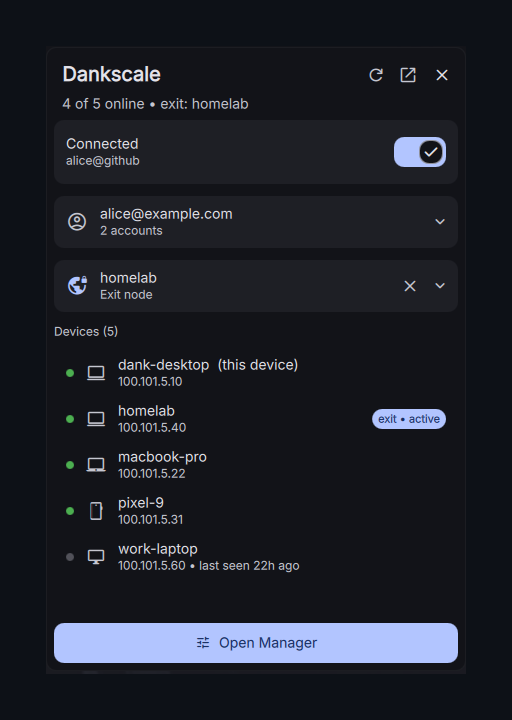
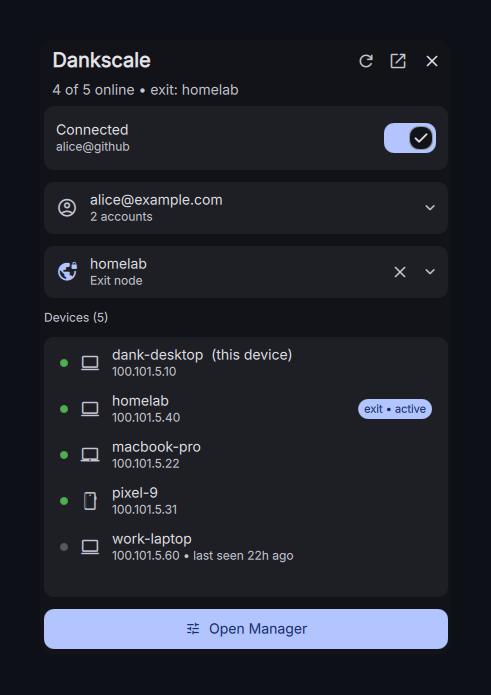
Wrap popout device list in a card; refresh screenshots
- Wrap the popout's device list in a StyledRect card using
  surfaceContainerHigh / cornerRadius, matching the connection,
  account, and exit-node cards for a consistent look.
- Regenerate docs/screenshot.png and docs/manager.png with the new
  card styling (seeded demo tailnet).
- Add screenshot links to plugin.json.
- Point remaining references at the renamed repo (dms-dankscale).

diff --git a/Tailscale.qml b/Tailscale.qml
@@ -498,34 +498,43 @@ PluginComponent {
                     color: Theme.surfaceVariantText
                 }
 
-                DankFlickable {
+                StyledRect {
                     visible: !popout.locked
                     width: parent.width
                     height: 260
-                    clip: true
-                    contentHeight: popoutDeviceCol.height
+                    radius: Theme.cornerRadius
+                    color: Theme.surfaceContainerHigh
 
-                    Column {
-                        id: popoutDeviceCol
-                        width: parent.width
-                        spacing: 2
+                    DankFlickable {
+                        anchors.fill: parent
+                        anchors.margins: Theme.spacingXS
+                        clip: true
+                        contentHeight: popoutDeviceCol.height
 
-                        Repeater {
-                            model: root.popoutDevices
+                        Column {
+                            id: popoutDeviceCol
+                            width: parent.width
+                            spacing: 2
 
-                            DeviceRow {
-                                required property var modelData
-                                width: parent.width
-                                device: modelData
-                                compact: true
-                                onActivated: TailscaleService.copyDevice(modelData)
+                            Repeater {
+                                model: root.popoutDevices
+
+                                DeviceRow {
+                                    required property var modelData
+                                    width: parent.width
+                                    device: modelData
+                                    compact: true
+                                    onActivated: TailscaleService.copyDevice(modelData)
+                                }
                             }
-                        }
 
-                        StyledText {
-                            visible: root.popoutDevices.length === 0
-                            text: TailscaleService.statusReady ? "No devices" : "Loading…"
-                            color: Theme.surfaceVariantText
+                            StyledText {
+                                visible: root.popoutDevices.length === 0
+                                text: TailscaleService.statusReady ? "No devices" : "Loading…"
+                                color: Theme.surfaceVariantText
+                                anchors.left: parent.left
+                                anchors.leftMargin: Theme.spacingM
+                            }
                         }
                     }
                 }

diff --git a/README.md b/README.md
@@ -44,7 +44,7 @@ A DankMaterialShell (Quickshell) plugin that manages your Tailscale network from
 **Manually** — clone into your DMS plugins directory:
 
 ```sh
-git clone https://github.com/dwright134/dms-tailscale ~/.config/DankMaterialShell/plugins/Dankscale
+git clone https://github.com/dwright134/dms-dankscale ~/.config/DankMaterialShell/plugins/Dankscale
 ```
 
 Then enable **Dankscale** under Settings → Plugins.